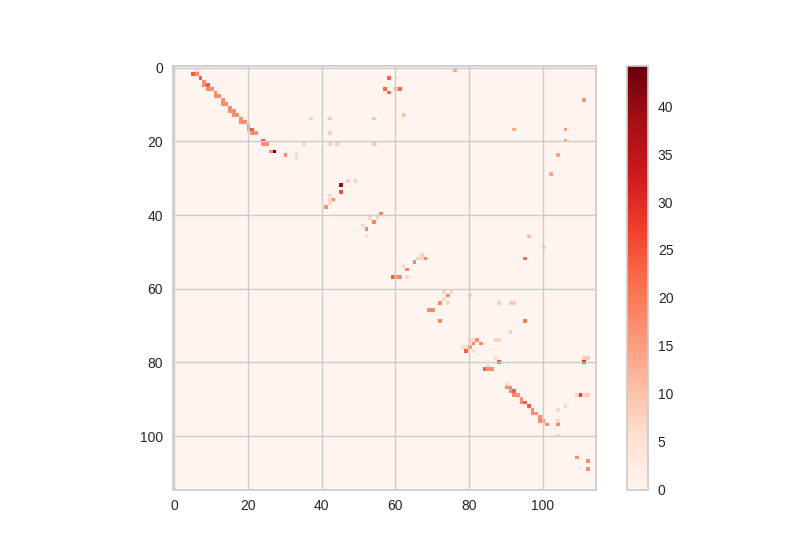
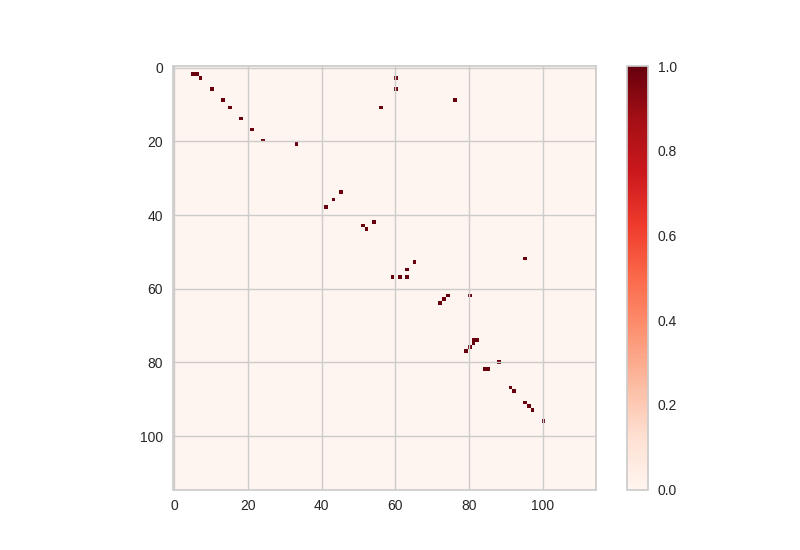
creato il plot della matrice delle distanze che rappresenta il cluster

diff --git a/Script/clustering.py b/Script/clustering.py
@@ -175,7 +175,7 @@ def elbow(X):
     plt.show()
     plt.clf()
     plt.close()
-    return AgglomerativeClustering(n_clusters=visualizer.elbow_value_, affinity='cosine', linkage='average').fit(X)
+    return AgglomerativeClustering(n_clusters=visualizer.elbow_value_, affinity='cosine', linkage='average').fit(X), visualizer.elbow_value_
 
 def elbow_RMSD(X):
     model = AgglomerativeClustering(compute_full_tree=True, affinity='precomputed', linkage='average')
@@ -190,4 +190,40 @@ def elbow_RMSD(X):
     plt.show()
     plt.close()
     return AgglomerativeClustering(n_clusters=visualizer.elbow_value_, affinity='precomputed', linkage='average').fit(X)
+
+def clusterize_snaps(best_k, labels, matrix_snap):
+    clusterized_snaps = []
+    for k in range(0,best_k):
+        k_list = []
+        for i in range(0,len(labels)):
+            if labels[i]==k:
+                for m in range(0,len(matrix_snap[i])):
+                    for n in range(0,len(matrix_snap[i])):
+                        if matrix_snap[i,m,n] > 0:
+                            matrix_snap[i,m,n] = 1
+                k_list.append(matrix_snap[i])
+        clusterized_snaps.append(k_list)
+    return clusterized_snaps
+
+def get_common_contacts(clusterized_snaps):
+    common_snaps = []
+    for k in range(0,len(clusterized_snaps)):
+        n_snaps = len(clusterized_snaps[k])
+        n, _ = clusterized_snaps[k][0].shape
+        common_contacts = np.zeros((n,n))
+        for i in  range(0,n_snaps):
+            for j in range(0,n):
+                for w in range(0,n):
+                    common_contacts[j,w] += clusterized_snaps[k][i][j,w]
+        for j in range(0,n):
+            for w in range(0,n):
+                if common_contacts[j,w] < n_snaps:
+                    common_contacts[j,w] = 0
+                else:
+                    common_contacts[j,w] = 1
+        common_snaps.append(common_contacts)
+    return common_snaps
+                    
+
+
     

diff --git a/Script/main.py b/Script/main.py
@@ -122,13 +122,19 @@ X_PCA = clustering.PCA_transform(scaled_vector)
 
 #model = clustering.get_best_cluster(X, sil)
 #model = clustering.KMeans(n_clusters=4).fit(X_NMF)
-model = clustering.elbow(X_PCA)
+model, best_k = clustering.elbow(X_PCA)
 rand_index = clustering.adjusted_rand_score(model_RMSD.labels_,model.labels_)
 mutal_info_score = clustering.normalized_mutual_info_score(model_RMSD.labels_,model.labels_)
 #print("mutual info score between RMSD clustering and contact clustering:", mutal_info_score)
 print("RandIndex between RMSD clustering and contact clustering:", rand_index)
 """print(model_RMSD.labels_)
 print(model.labels_)"""
+clusterized_snaps = clustering.clusterize_snaps(best_k, model.labels_, matrix_snap)
+common_contacts = clustering.get_common_contacts(clusterized_snaps)
+print(len(clusterized_snaps))
+for i in range(0,len(common_contacts)):
+    matrix.plotDistanceMatrix(common_contacts, i)
+
 
 
 """ edges_count = open("edges_count.txt","w")

diff --git a/Script/matrix.py b/Script/matrix.py
@@ -44,8 +44,8 @@ def calcVectorSimple(snap, snapSet, vector_position_simple):
 # plot the n-th snapshot's distance matrix
 # make sure that ../fig directory already exists
 # PS: SI CONSIDERANO SOLAMENTE I NODI CHE SONO PRESENTI NELL'MD, QUINDI NON MOLTO INDICATIVO VISIVAMENTE
-def plotDistanceMatrix(matrix_snap, snap, snapSet):
-    plt.imshow(matrix_snap[snap], cmap='Reds', interpolation='nearest', vmin=0, vmax=30)
+def plotDistanceMatrix(matrix_snap, snap):
+    plt.imshow(matrix_snap[snap], cmap='Reds', interpolation='nearest')#, vmin=0, vmax=30)
     plt.colorbar()
     plt.savefig("../fig/" + str(snap) + ".png")
     plt.close()
